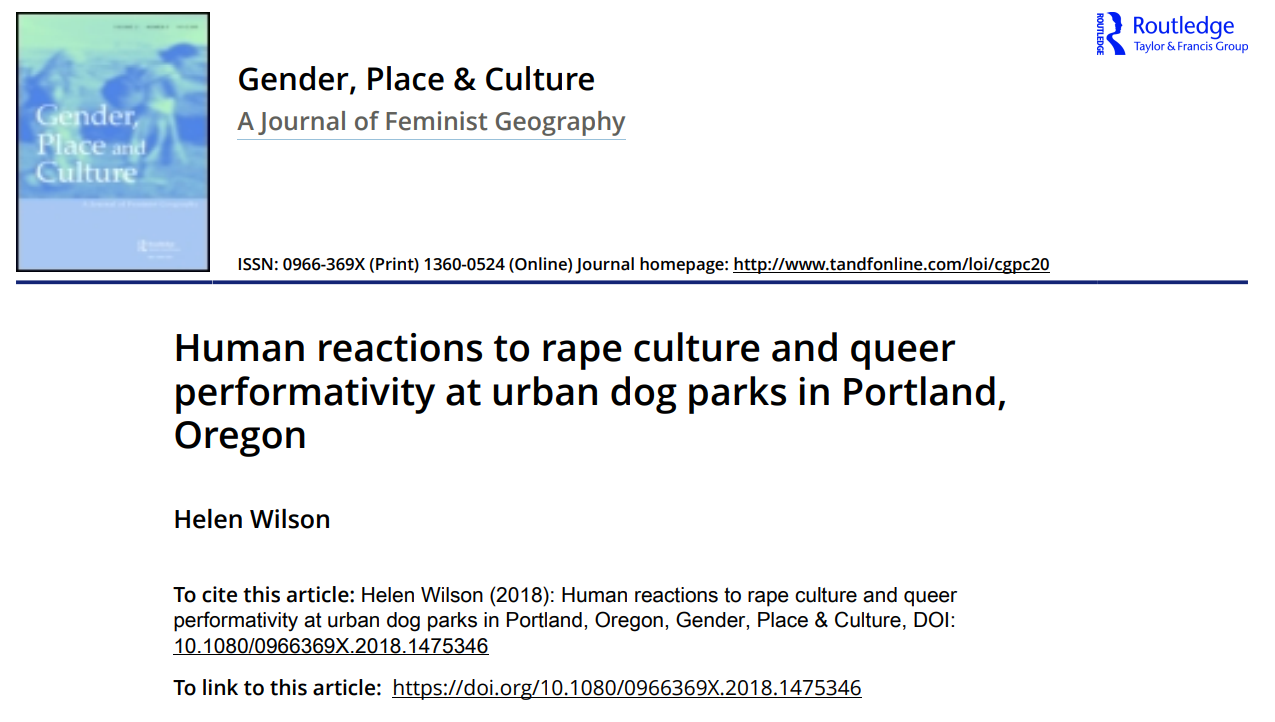
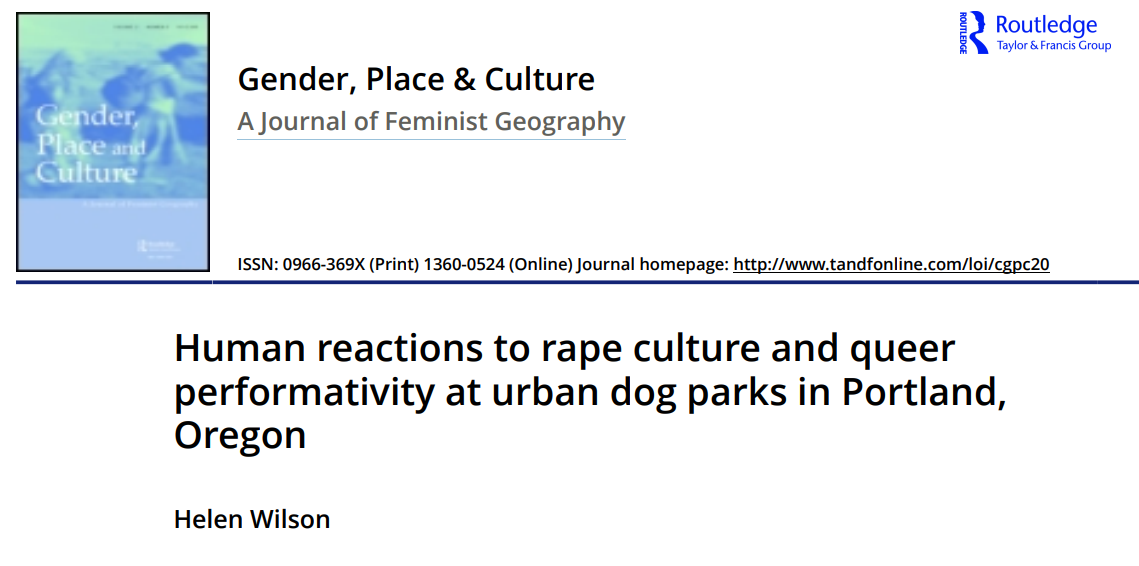
new images

Changed region(s): [[0.0, 0.0, 1.0, 0.9912], [0.8297, 0.0, 0.9833, 0.0901]]

diff --git a/talks/2026-dypac/pres/index.html b/talks/2026-dypac/pres/index.html
@@ -479,14 +479,15 @@ if objet["materiau"] == "bronze":
 </section>
 <section id="paroles-dexpert-larticle-de-recherche" class="slide level2">
 <h2>Paroles d’expert: l’article de recherche</h2>
-<div class="columns">
-<div class="column" style="width:60%;">
-<br> “<em>In God we trust. All others must bring data</em>.”&nbsp; &nbsp; &nbsp;
+“<em>In God we trust. All others must bring data</em>.”&nbsp; &nbsp; &nbsp;
 <div class="captiontext">
 – W. Edwards Deming
 </div>
 <p><br></p>
-</div><div class="column" style="width:40%;">
+<div class="columns">
+<div class="column" style="width:50%;">
+<p><img src="https://raw.githubusercontent.com/iramat/iramat-dev/master/talks/2026-dypac/img/BIB 4134-dog-paper.png" style="height: 400px;vertical-align: middle;"></p>
+</div><div class="column" style="width:50%;">
 <center>
 <div class="iframe-figure" style="width:100%; aspect-ratio:16/9;">
   <iframe src="https://commons.wikimedia.org/wiki/File:Academics_expose_corruption_in_Grievance_Studies.webm?embedplayer=true&amp;start=9" title="Academics expose corruption in Grievance Studies" loading="lazy" allow="autoplay; fullscreen; picture-in-picture" allowfullscreen="" style="width:100%; height:100%; border:0; display:block;">
